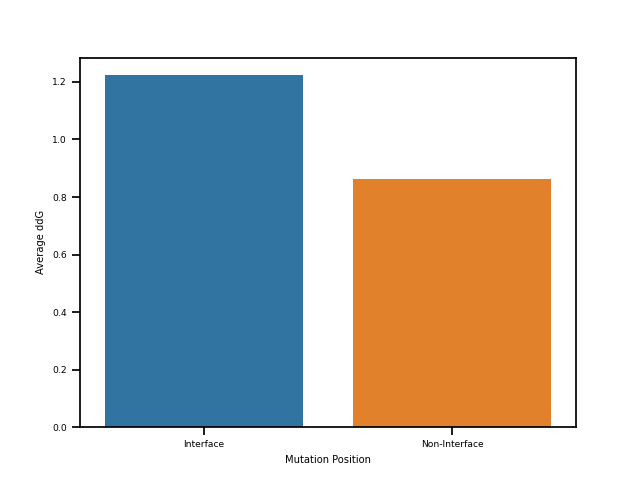
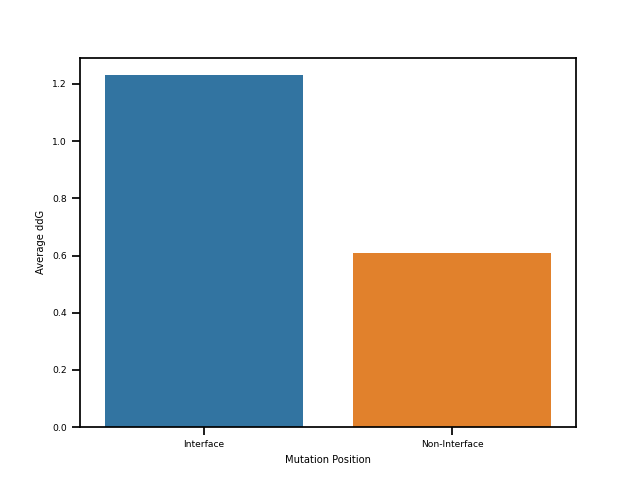
fixing numbering so interface mutations line up, adding histogram for ddgs

diff --git a/raw_datasets/data_cleaners.py b/raw_datasets/data_cleaners.py
@@ -92,12 +92,12 @@ def return_mut_df(file_df, cr9114: bool):
     from Phillips et al. to a list of mutations. Set cr9114 bool if working with CR9114 instead of CR6261."""
     # Mutations are from PDB to germline
     if cr9114:
-        mutations = ['S29F', 'N30S', 'N31S', 'S52I', 'S57T', 'T58A', 'A59N',
-                     'S71T', 'I74K', 'F75S', 'S76T', 'N77S', 'N84S', 'T87R', 'F95Y', 'S106Y']
+        mutations = ['S29F', 'N30S', 'N31S', 'S52I', 'S56T', 'T57A', 'A58N',
+                     'S70T', 'I73K', 'F74S', 'S75T', 'N76S', 'N82AS', 'T83R', 'F91Y', 'S100BY']
         pdb_id = "4FQY"
     else:
-        mutations = ['P28T', 'R30S', 'T58A', 'K59N', 'P62Q',
-                     'D74E', 'F75S', 'A76T', 'G77S', 'V79A', 'V104L']
+        mutations = ['P28T', 'R30S', 'T57A', 'K58N', 'P61Q',
+                     'D73E', 'F74S', 'A75T', 'G76S', 'V78A', 'V100L']
         pdb_id = "3GBN"
     var_mutations = []
     num_mutations = []

diff --git a/stats.py b/stats.py
@@ -101,3 +101,18 @@ avgs = pd.DataFrame({
 barplt = sns.barplot(x = "Mutation Position", y = "Average ddG", data=avgs)
 plt.savefig("./images/avg_ddG_interfaces.png")
 plt.clf()
+
+### ddG histogram for interface vs non-interface
+
+non_int_ddgs = non_int["ddG(kcal/mol)"]
+interface_ddgs = interface["ddG(kcal/mol)"]
+
+df = pd.DataFrame({
+    "Non-Interface": non_int_ddgs,
+    "Interface": interface_ddgs
+})
+
+histplt = sns.histplot(data = df, kde = True, element="step")
+plt.xlabel("ΔΔG (kcal/mol)")
+plt.savefig("./images/ddG_hist_interfaces.png")
+plt.clf()

diff --git a/raw_datasets/cleaning.py b/raw_datasets/cleaning.py
@@ -52,7 +52,7 @@ all = dc.filter_overlap_and_combine(
     ab_bind_skempi_sipmab_mason_phillips, phillips_etal_cr9114)
 
 try:
-    all.to_csv('./raw_datasets/full_data.csv')
+    all.to_csv('./raw_datasets/full_data.csv', index=False)
     print("Wrote file.")
 except:
     print("Did not output.")

diff --git a/interfaces.py b/interfaces.py
@@ -146,7 +146,7 @@ data["Interface?"] = interfaces
 print(len(data[data["Interface?"] == True]))
 
 try:
-    data.to_csv('./raw_datasets/interface_data_use.csv')
+    data.to_csv('./raw_datasets/interface_data_use.csv', index=False)
     print("Wrote file.")
 except:
     print("Did not output.")
